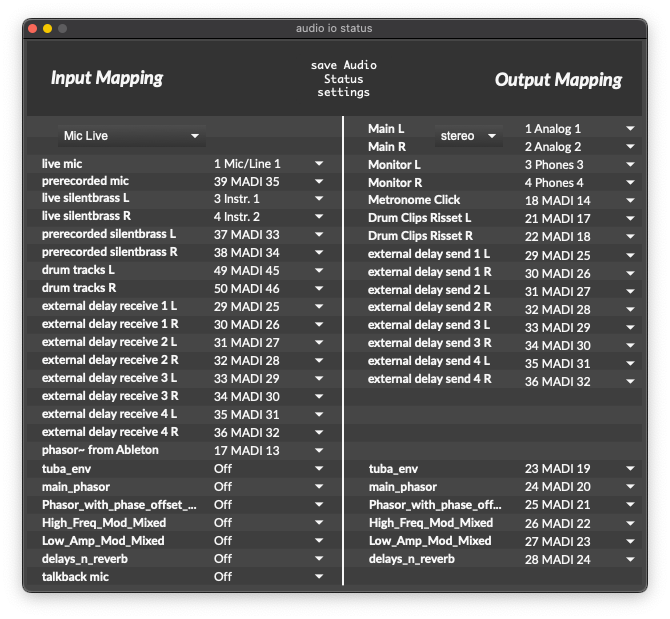
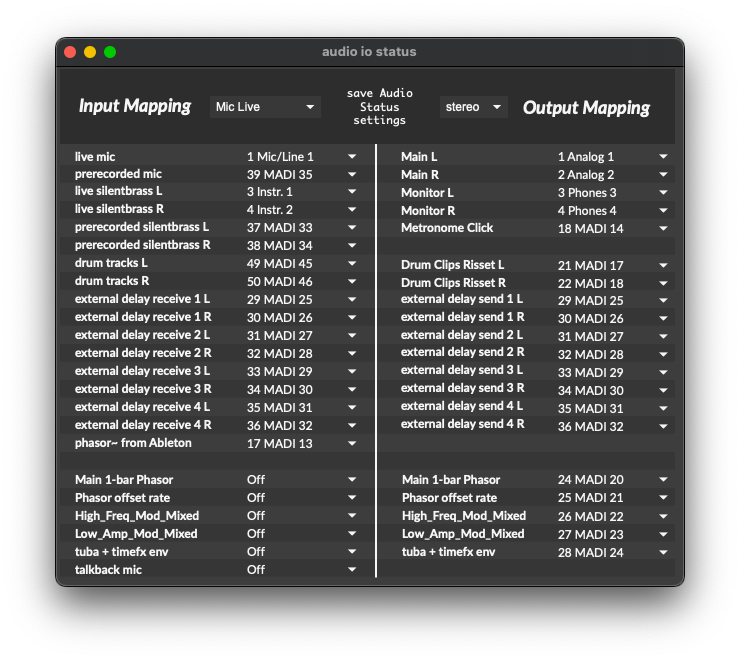
init vfx

diff --git a/docs/content/sousavfx.rst b/docs/content/sousavfx.rst
@@ -1,0 +1,81 @@
+SousaVFX
+========
+
+SousaFX integrates with SousaVFX via five 
+audio-rate control signals to provide 
+visual effects for LED sousaphone bells. 
+SousaVFX may run on the same computer 
+as SousaFX, or on a separate computer. 
+For example, I have SousaFX on my mac, 
+and send those five outputs to my RME MADIface 
+via USB, then to the Eventide H9000R via MADI, 
+then from MADI to Dante thru the H9000R, 
+to Dante Via on my windows PC via ethernet, 
+to SousaVFX.
+
+.. note::
+
+	Other VFX apps such as `VDMX <https://vidvox.net/>`_, 
+	`Resolume <https://resolume.com/>`_, 
+	or `Touchdesigner <https://derivative.ca/>`_ 
+	would also play nicely with SousaFX's control signals.
+
+.. figure:: media/vfx3.png
+   :align: center
+   :width: 100%
+   :alt: vfx3
+
+   SousaVFX screenshot #1
+
+Startup
+-------
+
+1. Open ``~/Documents/Max 8/Projects/sousastep/SousaVFX/SousaVFX.maxproj``
+
+2.	If SousaVFX is running on the same computer as SousaFX, 
+	then the following :ref:`Audio IO <Audio IO>` may be set to Off.
+		
+		- Main 1-bar Phasor
+		
+		- Phasor offset rate
+		
+		- High Freq Mod Mixed
+		
+		- Low Amp Mod Mixed
+		
+		- tuba + timefx env
+
+	If SousaVFX and SousaFX are running on different computers, 
+	then SousaFX's aformentioned audio outputs must be routed 
+	to SousaVFX's audio inputs of the same name.
+
+Screenshots
+-----------
+
+.. figure:: media/vfx1.png
+   :align: center
+   :width: 100%
+   :alt: vfx1
+
+   SousaVFX screenshot #2
+
+.. figure:: media/vfx2.png
+   :align: center
+   :width: 100%
+   :alt: vfx2
+
+   SousaVFX screenshot #3
+
+.. figure:: media/isfobject.png
+   :align: center
+   :width: 100%
+   :alt: international shafer format for jitter
+
+   patching mode. ISF preset switcher.
+
+.. figure:: media/serialobject.png
+   :align: center
+   :width: 100%
+   :alt: serial
+
+   patching mode. Sending RGB data to a Teensy via ``serial``.

diff --git a/docs/content/hardreq.rst b/docs/content/hardreq.rst
@@ -21,7 +21,7 @@ Requirements
 Recommendations
 ---------------
 
-SousaFX is developed and tested on a minimum-spec m1 macbook pro, and a decent windows 11 gaming pc. I'd recommend getting a slightly-better-than-minimum-spec m-series mac.
+Any m-series mac is recommended.
 
 If you haven't optimized your computer for audio performance yet, `these Ableton articles are worth checking out <https://help.ableton.com/hc/en-us/search?utf8=%E2%9C%93&query=optimize>`_.
 
@@ -34,6 +34,19 @@ If you're performing live you may also want to invest in a DI such as the `TrimT
 SousaFX is developed and tested with a PS4 controller, and an Xbox Elite 2 controller. If I had to recommend one of them then it'd be the Xbox controller. However, `all gamepads listed here are supported <https://github.com/libsdl-org/SDL/blob/SDL2/src/joystick/SDL_gamecontrollerdb.h>`_.
 
 If you're using a `SilentBrass mute <https://usa.yamaha.com/products/musical_instruments/winds/silent_brass/silent_brass_sbj_series/index.html>`_ you'll need an `eighth inch TRS to dual quarter inch TS cable <https://www.sweetwater.com/store/search?s=3.5mm+trs+to+dual+1%2F4+ts>`_ to properly connect the PersonalStudio's headphone output to the audio interface's line inputs.
+
+
+Benchmarks
+----------
+
+:m1 macbook pro, 8 cores:
+
+   SousaFX takes three minutes to start, and idles around 4.8 GB RAM, 9% CPU.
+
+:windows 11, DDR4 2666, i7-9700K:
+
+   SousaFX takes five minutes to start, and idles around 4.5 GB RAM, 14% CPU.
+
 
 Examples
 --------

diff --git a/docs/content/startup.rst b/docs/content/startup.rst
@@ -22,7 +22,7 @@ Steps 2 - 5 are only necessary the first time SousaFX starts.
    :align: center
    :alt: maxaudiostatus
 
-4. Uncheck the Startup Preferences' pause button. :ref:`SousaFX will appear momentarily <Main Window>`. It takes a couple minutes to boot, but while it does, you may ponder a randomly selected prompt from :ref:`"Do It (Home)", or "Prompts for Programmers" <SousaFX Media>`.
+4. Uncheck the Startup Preferences' pause button. :ref:`SousaFX will appear in 2 - 5 minutes <Main Window>`.
 
 5. Open the :ref:`Audio IO <Audio IO Status>` and ensure that the Main and Monitor :ref:`return tracks <Return Track List>` are routed to their proper audio outputs.
 

diff --git a/docs/content/sousavfxscreenshots.rst b/docs/content/sousavfxscreenshots.rst
@@ -1,0 +1,30 @@
+Screenshots
+-----------
+
+.. figure:: media/vfx1.png
+   :align: center
+   :width: 100%
+   :alt: vfx1
+
+   SousaVFX screenshot #2
+
+.. figure:: media/vfx2.png
+   :align: center
+   :width: 100%
+   :alt: vfx2
+
+   SousaVFX screenshot #3
+
+.. figure:: media/isfobject.png
+   :align: center
+   :width: 100%
+   :alt: international shafer format for jitter
+
+   ISF preset switcher.
+
+.. figure:: media/serialobject.png
+   :align: center
+   :width: 100%
+   :alt: serial
+
+   Sending RGB data to a Teensy via ``serial``.

diff --git a/docs/index.rst b/docs/index.rst
@@ -6,7 +6,6 @@ SousaFX Documentation
    :align: center
    :alt: Work In Progress
 
-
 Introduction
 ------------
 
@@ -26,5 +25,6 @@ SousaFX may be :ref:`downloaded <Installation>` and evaluated for free, however 
    content/startup.rst
    content/SousaFX.rst
    content/playback.rst
+   content/SousaVFX.rst
    content/purchase.rst
    content/attrib.rst
